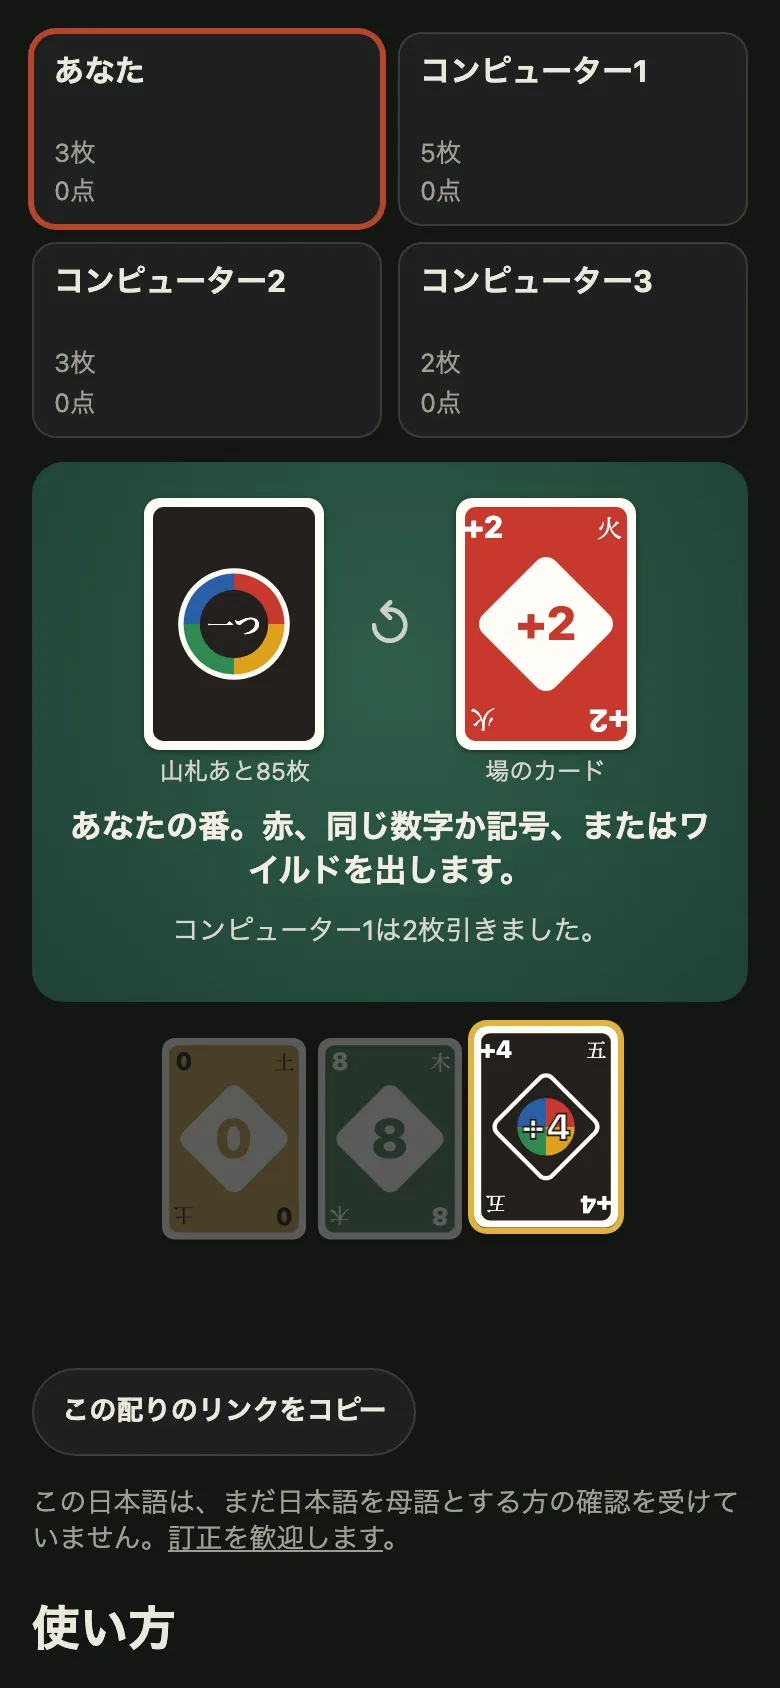
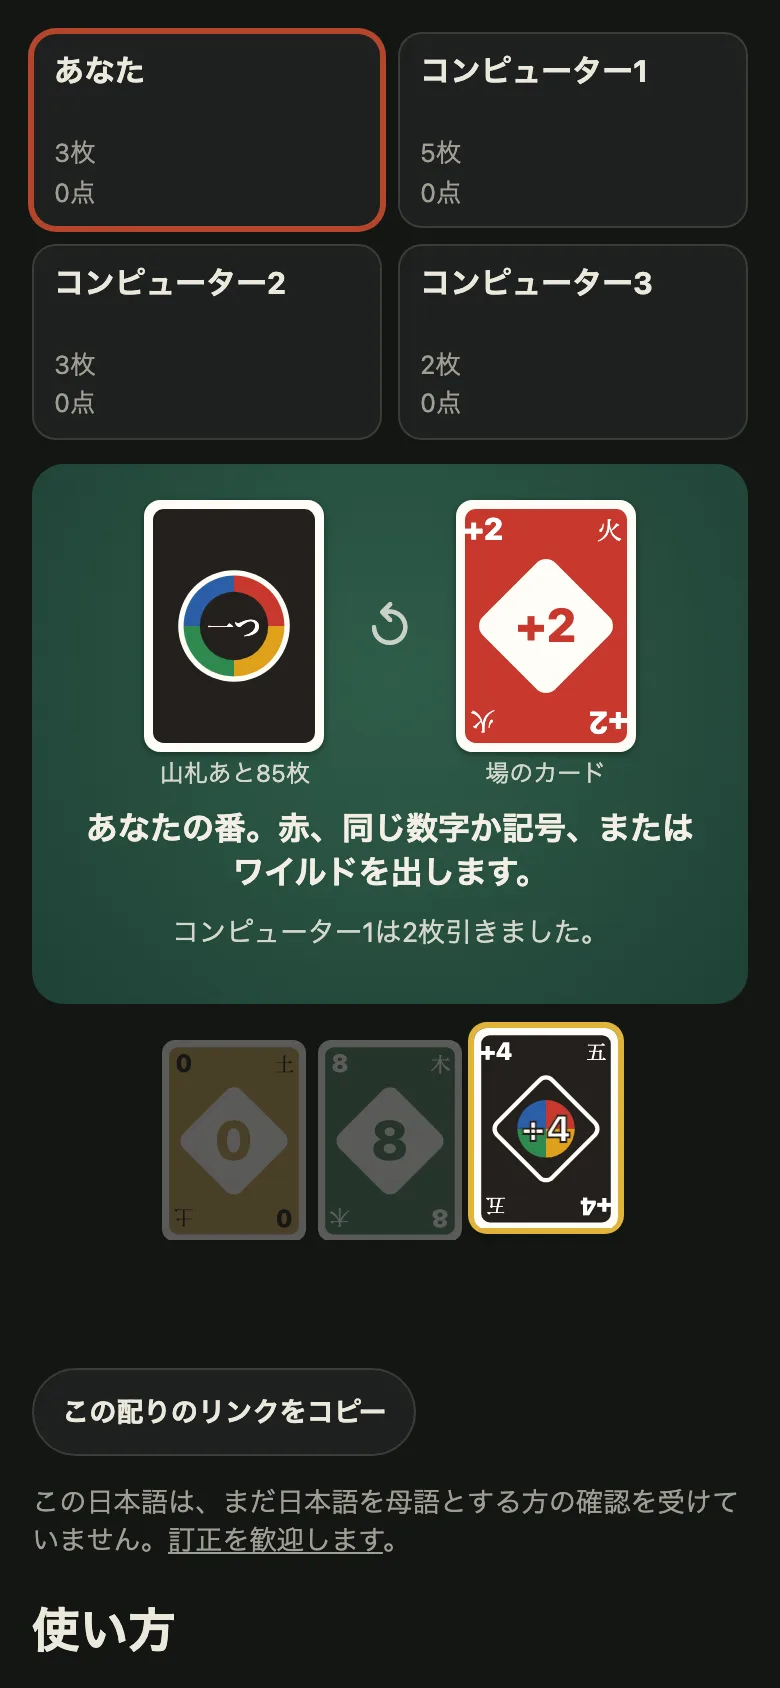
fix: in Japanese the status and news lines keep their words whole, so ワイルドを出します no longer breaks inside ワイルド
Ticket: MODULES-326

diff --git a/src/ui/phrases.test.ts b/src/ui/phrases.test.ts
@@ -1,0 +1,49 @@
+import { describe, expect, it } from "vitest";
+
+import { phrases } from "./phrases.ts";
+
+describe("phrases: where a line of Japanese may break", () => {
+  it("leaves English as one piece", () => {
+    const text = "Your turn. Play red, the same number or symbol, or a wild.";
+    expect(phrases(text)).toEqual([text]);
+  });
+  it("cuts after a run of hiragana, never inside a katakana word or its number", () => {
+    expect(phrases("赤、同じ数字か記号、またはワイルドを出します。")).toEqual([
+      "赤、",
+      "同じ",
+      "数字か",
+      "記号、または",
+      "ワイルドを",
+      "出します。",
+    ]);
+    expect(phrases("コンピューター1はコンピューター2のワイルドドローフォーに挑戦するか、引きます。")).toEqual([
+      "コンピューター1は",
+      "コンピューター2の",
+      "ワイルドドローフォーに",
+      "挑戦するか、",
+      "引きます。",
+    ]);
+  });
+  it("never starts a line with a closing mark or a long vowel", () => {
+    expect(phrases("「ヒトツ！」と言いました")).toEqual(["「ヒトツ！」と", "言いました"]);
+    expect(phrases("あー」い")).toEqual(["あー」い"]);
+  });
+  it("keeps every character of every Japanese sentence the table says", async () => {
+    const { HITOTSU_STRINGS_JA: ja } = await import("./strings.ts");
+    const who = ja.computer(2);
+    const said = [
+      ja.follow("赤"),
+      ja.facing(who, 4),
+      ja.drew(who),
+      ja.challengeOpen(who, ja.computer(3)),
+      ja.won(who),
+      ja.news.caught(who),
+      ja.news.challenge(who, ja.computer(3), true),
+      ja.news.swap(who, ja.you),
+    ];
+    for (const sentence of said) {
+      expect(phrases(sentence).join("")).toBe(sentence);
+      for (const piece of phrases(sentence)) expect(piece).not.toMatch(/^[ぁ-ゖ]+$/);
+    }
+  });
+});

diff --git a/src/ui/mount.ts b/src/ui/mount.ts
@@ -8,7 +8,7 @@ import { callMatters, movesFor, playableFor, waysFor } from "../seat.ts";
 import type { HitotsuCard, HitotsuColour, HitotsuGame, HitotsuMove, HitotsuNews, HitotsuOptions } from "../types.ts";
 import { type CardSounds, createCardSounds } from "./cardSounds.ts";
 import { type Cloth, clothVars, isCloth } from "./cloth.ts";
-import { h, refill } from "./dom.ts";
+import { h, phrased, refill } from "./dom.ts";
 import { type HitotsuLanguage, type HitotsuStrings, hitotsuLanguageOf, hitotsuStrings } from "./strings.ts";
 import { injectStyle } from "./style.ts";
 
@@ -361,8 +361,8 @@ export function mountHitotsu(target: HTMLElement, options: HitotsuTableOptions =
           h("span", { class: "ht-dir", "aria-hidden": "true" }, game.direction === 1 ? "↻" : "↺"),
           pile,
         ),
-        h("p", { class: "ht-status", "aria-live": "polite" }, status),
-        h("p", { class: "ht-news" }, newsLine(game.news, t, name)),
+        h("p", { class: "ht-status", "aria-live": "polite" }, ...phrased(status)),
+        h("p", { class: "ht-news" }, ...phrased(newsLine(game.news, t, name))),
       ),
       h(
         "div",

diff --git a/src/ui/style.ts b/src/ui/style.ts
@@ -43,6 +43,8 @@ export const CSS = `
 .ht-stock:disabled { cursor: default; }
 /* The turn's direction sits level with the middle of the cards, not of the cards and their captions. */
 .ht-dir { font-size: 1.6rem; line-height: 1; opacity: .8; align-self: flex-start; margin-top: calc(var(--ht-card) * 1.25 * 0.7 - .8rem); }
+/* A line of words keeps its words whole: Japanese is never broken inside コンピューター2, ワイルド or ドローカード (keep-all); the table marks the breaks between phrases itself (a wbr, see ui/phrases.ts), and a word wider than the line breaks only because it must (anywhere). */
+.ht-status, .ht-news, .ht-actions button, .ht-seat span { word-break: keep-all; overflow-wrap: anywhere; }
 .ht-status { margin: 0; font-weight: 600; text-align: center; }
 .ht-news { margin: 0; min-height: 1.3em; font-size: .85rem; opacity: .85; text-align: center; }
 .ht-hand { display: flex; flex-wrap: wrap; justify-content: center; gap: 6px; padding-top: 6px; }

diff --git a/src/ui/dom.ts b/src/ui/dom.ts
@@ -1,3 +1,5 @@
+import { phrases } from "./phrases.ts";
+
 /** A few lines of DOM building, so the table needs no framework. Text is always set as text, never as HTML. */
 type Attrs = Record<string, string | number | boolean | null | undefined | EventListener>;
 type Child = Node | string | null | undefined | false;
@@ -19,6 +21,11 @@ export function h<K extends keyof HTMLElementTagNameMap>(
     el.append(typeof child === "string" ? document.createTextNode(child) : child);
   }
   return el;
+}
+
+/** A sentence as table text with a `<wbr>` between its phrases, so that a line of Japanese breaks only there (with `word-break: keep-all`). The text is the sentence as it was, for `textContent`, a screen reader and a host's tests. */
+export function phrased(text: string): (Node | string)[] {
+  return phrases(text).flatMap((part, at) => (at === 0 ? [part] : [document.createElement("wbr"), part]));
 }
 
 /** replaceChildren, skipping the parts a render left out. */

diff --git a/src/ui/phrases.ts b/src/ui/phrases.ts
@@ -1,0 +1,10 @@
+/** Where a line of Japanese may break: after a run of hiragana (a particle, an ending) or a stop, before whatever is not. The words it joins, コンピューター2 or ワイルドドローフォー, are never between two of these, so a line breaks between phrases and never inside a word. */
+const BETWEEN_PHRASES = /(?<=[ぁ-ゖ、。！？])(?=[^ぁ-ゖ、。！？゛゜ー」』）\s])/u;
+
+/** A sentence cut into its phrases, so that a line may break between them and nowhere else in Japanese. English is one piece.
+ * @param text - A sentence of the table's words.
+ * @returns Its phrases, which joined are the sentence exactly.
+ */
+export function phrases(text: string): string[] {
+  return text.split(BETWEEN_PHRASES);
+}

diff --git a/CHANGELOG.md b/CHANGELOG.md
@@ -6,6 +6,10 @@ All notable changes to this project are written here. The format follows
 
 ## [Unreleased]
 
+### Fixed
+
+- In Japanese the status line and the news line keep their words whole: "…ワイルドを出します" no longer breaks inside ワイルド on a phone, and ドローカード, ワイルドドローフォー and コンピューター2 are never split either. The table marks where a line may break, between phrases (after a run of hiragana such as は, を or の), with a `<wbr>` that leaves `textContent` as it was, and the lines, the buttons and the seats' counts use `word-break: keep-all; overflow-wrap: anywhere`, the same care as a seat's name. Checked at 320, 360, 390 and 1280 pixels in Chromium and WebKit. The README's phone picture is retaken.
+
 ## [1.6.1] - 2026-11-03
 
 ### Fixed

diff --git a/README.md b/README.md
@@ -848,6 +848,7 @@ src/
     ├── cloth.ts    the five cloths a table may be laid in
     ├── dom.ts      a few lines of DOM building, so the table needs no framework
     ├── mount.ts    the table itself: mounting it on a page, and the options it takes
+    ├── phrases.ts  where a line of Japanese may break: between phrases, never inside a word like コンピューター2
     ├── strings.ts  every word the table says, in English and Japanese, which a host page can replace
     └── style.ts    the table's look, injected once per document
 ```
